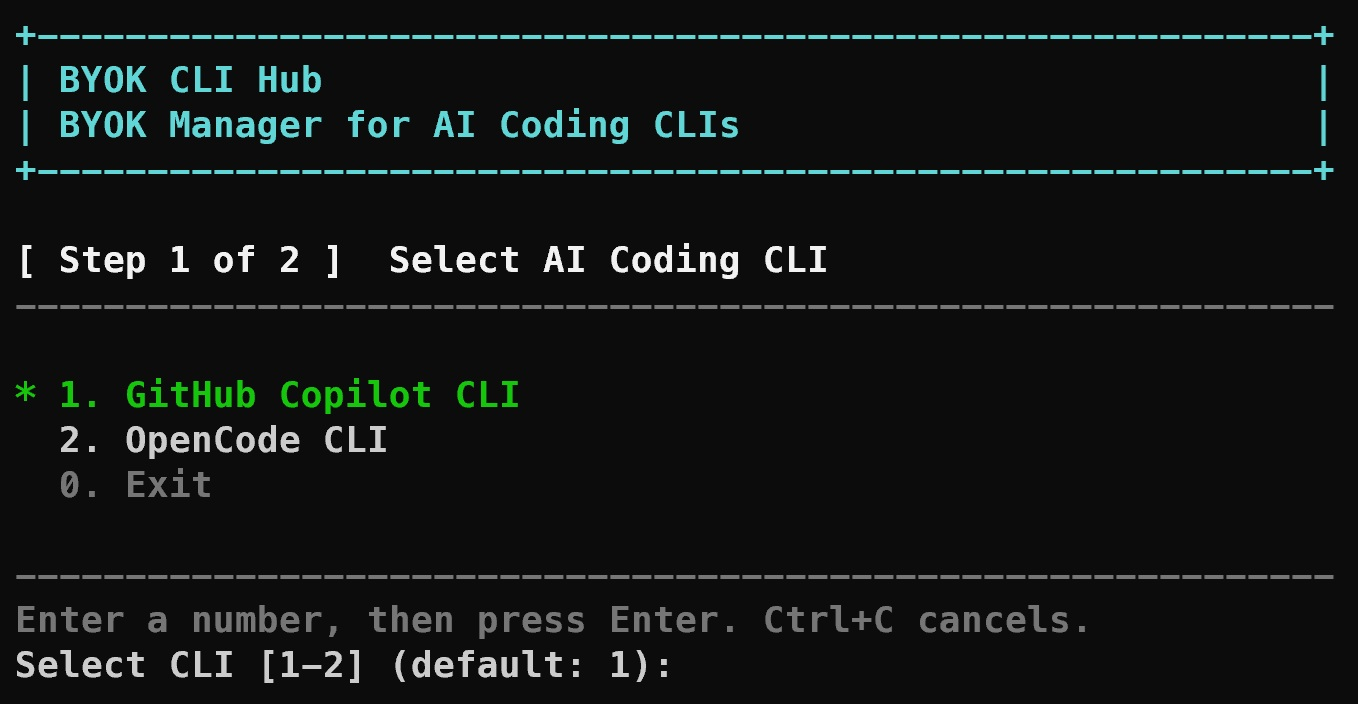
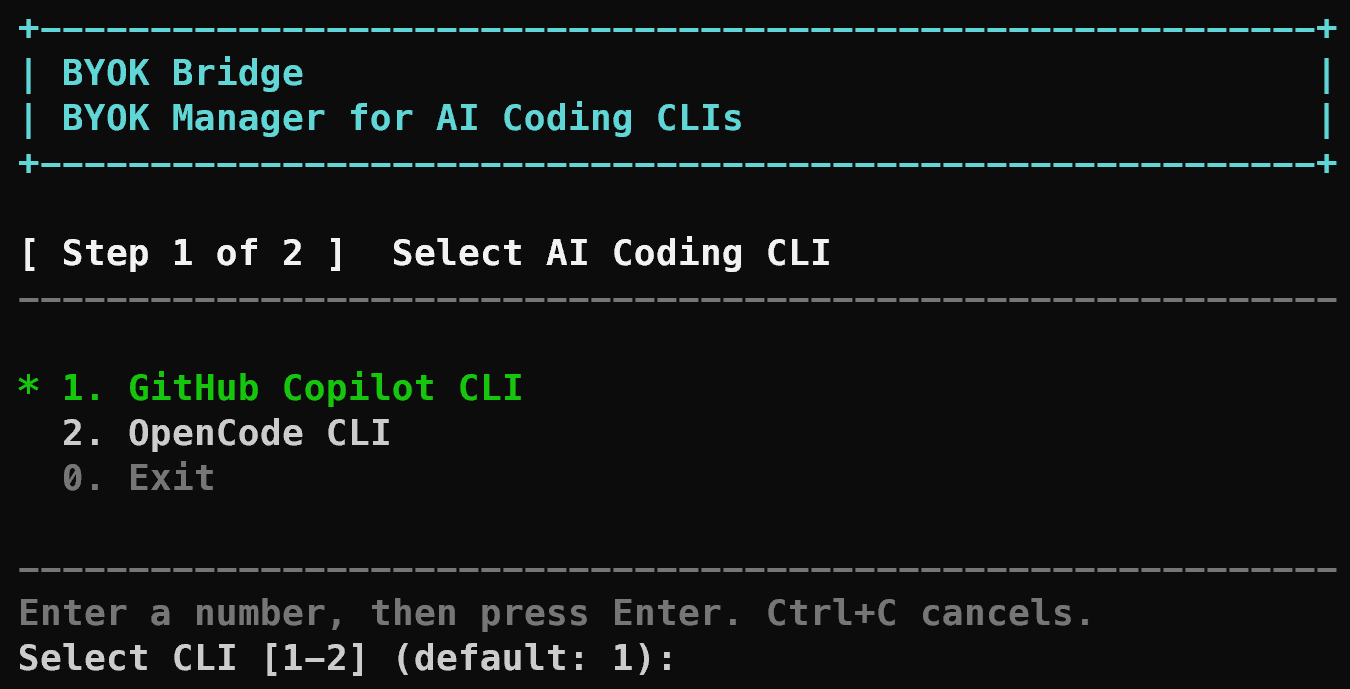
feat: Enhance provider configuration options and UI flow for adding providers

diff --git a/doc/quick-start.md b/doc/quick-start.md
@@ -49,7 +49,9 @@ The installer adds the Hub's Bash integration to `~/.bashrc`. `exec bash` reload
 
 For custom paths, extension installation, upgrade behavior, and uninstall instructions, see [Installation and upgrades](installation.md).
 
-## 4. Configure a provider
+## 4. Configure providers manually (optional)
+
+Use this option when you want to predefine providers before launching the wizard. Otherwise, skip to the next step and add a provider from the Provider screen when needed.
 
 The installer creates your provider configuration at `<data-dir>/providers.json`:
 
@@ -79,11 +81,23 @@ Choose the CLI that BYOK Bridge should start. Enter the number shown for GitHub 
 
 ![Select an AI coding CLI](../images/cli-selection.png)
 
-### Select a BYOK provider
+### Select or add a BYOK provider
 
-Choose an enabled provider from your `providers.json`. The entries shown depend on your configuration; enter the number for the provider you want to use, then press Enter.
+Choose an enabled provider from your `providers.json`, or select **Add Provider** to create one from the wizard. The entries shown depend on your configuration; enter the number for the provider you want to use, then press Enter.
 
 ![Select a BYOK provider](../images/provider-selection.png)
+
+#### Add a provider from the wizard (optional)
+
+Start any local model server or make sure the remote provider is reachable. After selecting **Add Provider**, enter:
+
+- **Provider display name**: a label you will recognise in the menu, such as `Local LM Studio`.
+- **Base URL**: the provider's OpenAI-compatible API root, such as `http://localhost:1234/v1` for LM Studio. Include the `/v1` prefix when the provider requires it.
+- **API key**: press Enter for a local or other provider that does not require authentication. The new provider is saved as not requiring a key, so later launches do not prompt for one.
+
+![Adding a custom provider from the wizard](../images/add-provider.png)
+
+For a provider that requires authentication, enter its key when prompted or supply it through an environment variable. BYOK Bridge never writes API keys to `providers.json`; a key entered in the wizard is available only for the current launch.
 
 After these two choices, the Hub retrieves or reuses the selected provider's cached model list through its configured `/models` API, then launches the selected CLI with the provider's previously selected model. If there is no previous model, it uses the first discovered model. Press Ctrl+C to cancel.
 
